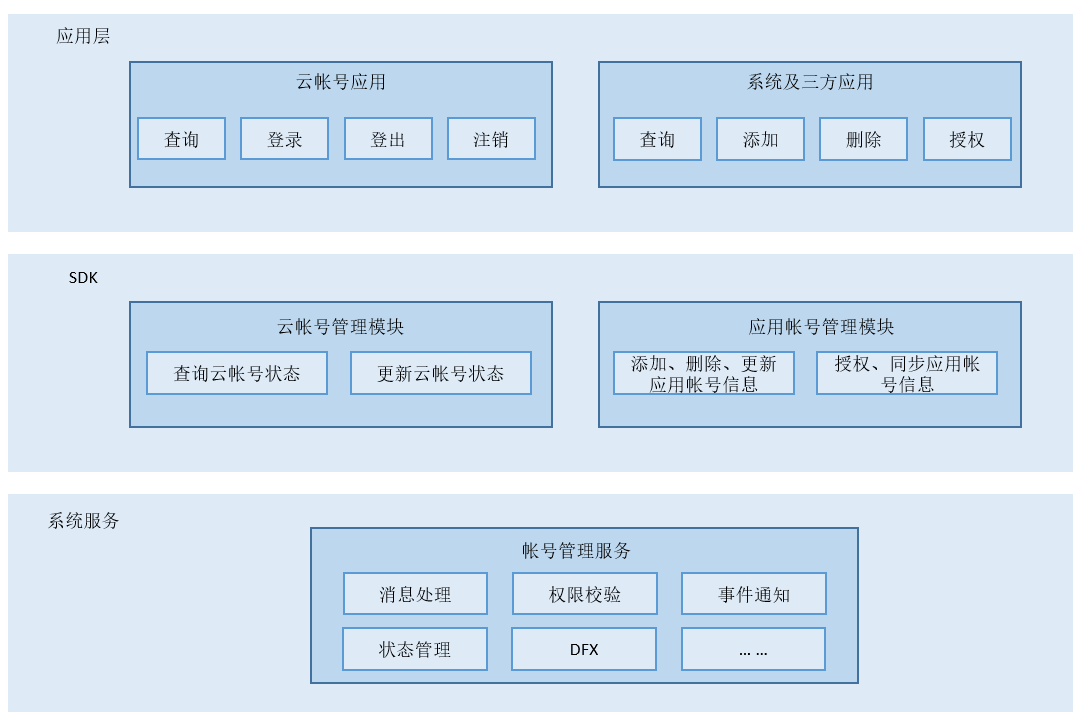
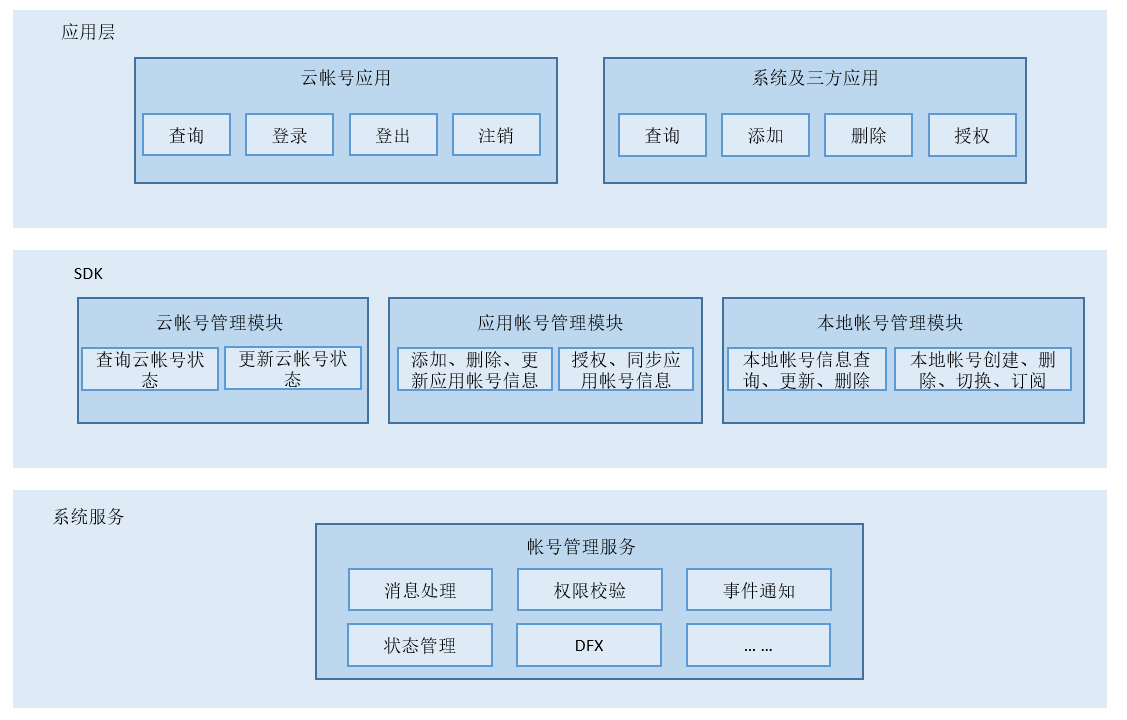
Add README_zh.md

diff --git a/README_zh.md b/README_zh.md
@@ -230,88 +230,309 @@
 </th>
 </tr>
 </thead>
-<tbody><tr id="row18381121274715"><td class="cellrowborder" valign="top" width="64.72%" headers="mcps1.2.3.1.1 "><p id="p1671817233812"><a name="p1671817233812"></a><a name="p1671817233812"></a>addAccount(name: string, callback: AsyncCallback<void>): void;</p>
+<tbody><tr id="row18381121274715"><td class="cellrowborder" valign="top" width="64.72%" headers="mcps1.2.3.1.1 "><p id="p1671817233812"><a name="p1671817233812"></a><a name="p1671817233812"></a>addAccount(name: string, callback: AsyncCallback&lt;void&gt;): void;</p>
 </td>
 <td class="cellrowborder" valign="top" width="35.28%" headers="mcps1.2.3.1.2 "><p id="p63421233134612"><a name="p63421233134612"></a><a name="p63421233134612"></a>添加应用帐号</p>
 </td>
 </tr>
-<tr id="row1938113125470"><td class="cellrowborder" valign="top" width="64.72%" headers="mcps1.2.3.1.1 "><p id="p73429332466"><a name="p73429332466"></a><a name="p73429332466"></a>deleteAccount(name: string, callback: AsyncCallback<void>): void;</p>
+<tr id="row1938113125470"><td class="cellrowborder" valign="top" width="64.72%" headers="mcps1.2.3.1.1 "><p id="p73429332466"><a name="p73429332466"></a><a name="p73429332466"></a>deleteAccount(name: string, callback: AsyncCallback&lt;void&gt;): void;</p>
 </td>
 <td class="cellrowborder" valign="top" width="35.28%" headers="mcps1.2.3.1.2 "><p id="p7342133394620"><a name="p7342133394620"></a><a name="p7342133394620"></a>删除应用帐号</p>
 </td>
 </tr>
-<tr id="row13811912164716"><td class="cellrowborder" valign="top" width="64.72%" headers="mcps1.2.3.1.1 "><p id="p186182593814"><a name="p186182593814"></a><a name="p186182593814"></a>enableAppAccess(name: string, bundleName: string, callback: AsyncCallback<void>): void;</p>
+<tr id="row13811912164716"><td class="cellrowborder" valign="top" width="64.72%" headers="mcps1.2.3.1.1 "><p id="p186182593814"><a name="p186182593814"></a><a name="p186182593814"></a>enableAppAccess(name: string, bundleName: string, callback: AsyncCallback&lt;void&gt;): void;</p>
 </td>
 <td class="cellrowborder" valign="top" width="35.28%" headers="mcps1.2.3.1.2 "><p id="p1534263304617"><a name="p1534263304617"></a><a name="p1534263304617"></a>应用帐号信息访问授权</p>
 </td>
 </tr>
-<tr id="row10382181218477"><td class="cellrowborder" valign="top" width="64.72%" headers="mcps1.2.3.1.1 "><p id="p686934433810"><a name="p686934433810"></a><a name="p686934433810"></a>disableAppAccess(name: string, bundleName: string, callback: AsyncCallback<void>): void;</p>
+<tr id="row10382181218477"><td class="cellrowborder" valign="top" width="64.72%" headers="mcps1.2.3.1.1 "><p id="p686934433810"><a name="p686934433810"></a><a name="p686934433810"></a>disableAppAccess(name: string, bundleName: string, callback: AsyncCallback&lt;void&gt;): void;</p>
 </td>
 <td class="cellrowborder" valign="top" width="35.28%" headers="mcps1.2.3.1.2 "><p id="p0342193384611"><a name="p0342193384611"></a><a name="p0342193384611"></a>应用帐号信息访问取消授权</p>
 </td>
 </tr>
-<tr id="row10382181218477"><td class="cellrowborder" valign="top" width="64.72%" headers="mcps1.2.3.1.1 "><p id="p686934433810"><a name="p686934433810"></a><a name="p686934433810"></a>checkAppAccountSyncEnable(name: string, callback: AsyncCallback<boolean>): void;</p>
+<tr id="row10382181218477"><td class="cellrowborder" valign="top" width="64.72%" headers="mcps1.2.3.1.1 "><p id="p686934433810"><a name="p686934433810"></a><a name="p686934433810"></a>checkAppAccountSyncEnable(name: string, callback: AsyncCallback&lt;boolean&gt;): void;</p>
 </td>
 <td class="cellrowborder" valign="top" width="35.28%" headers="mcps1.2.3.1.2 "><p id="p0342193384611"><a name="p0342193384611"></a><a name="p0342193384611"></a>检查应用帐号同步状态</p>
 </td>
 </tr>
-<tr id="row10382181218477"><td class="cellrowborder" valign="top" width="64.72%" headers="mcps1.2.3.1.1 "><p id="p686934433810"><a name="p686934433810"></a><a name="p686934433810"></a>setAccountCredential(name: string, credentialType: string, credential: string,callback: AsyncCallback<void>): void;</p>
+<tr id="row10382181218477"><td class="cellrowborder" valign="top" width="64.72%" headers="mcps1.2.3.1.1 "><p id="p686934433810"><a name="p686934433810"></a><a name="p686934433810"></a>setAccountCredential(name: string, credentialType: string, credential: string,callback: AsyncCallback&lt;void&gt;): void;</p>
 </td>
 <td class="cellrowborder" valign="top" width="35.28%" headers="mcps1.2.3.1.2 "><p id="p0342193384611"><a name="p0342193384611"></a><a name="p0342193384611"></a>设置应用帐号认证信息</p>
 </td>
 </tr>
-<tr id="row10382181218477"><td class="cellrowborder" valign="top" width="64.72%" headers="mcps1.2.3.1.1 "><p id="p686934433810"><a name="p686934433810"></a><a name="p686934433810"></a>setAccountExtraInfo(name: string, extraInfo: string, callback: AsyncCallback<void>): void;</p>
+<tr id="row10382181218477"><td class="cellrowborder" valign="top" width="64.72%" headers="mcps1.2.3.1.1 "><p id="p686934433810"><a name="p686934433810"></a><a name="p686934433810"></a>setAccountExtraInfo(name: string, extraInfo: string, callback: AsyncCallback&lt;void&gt;): void;</p>
 </td>
 <td class="cellrowborder" valign="top" width="35.28%" headers="mcps1.2.3.1.2 "><p id="p0342193384611"><a name="p0342193384611"></a><a name="p0342193384611"></a>设置应用帐号附加信息</p>
 </td>
 </tr>
-<tr id="row10382181218477"><td class="cellrowborder" valign="top" width="64.72%" headers="mcps1.2.3.1.1 "><p id="p686934433810"><a name="p686934433810"></a><a name="p686934433810"></a>setAppAccountSyncEnable(name: string, isEnable: boolean, callback: AsyncCallback<void>): void;</p>
+<tr id="row10382181218477"><td class="cellrowborder" valign="top" width="64.72%" headers="mcps1.2.3.1.1 "><p id="p686934433810"><a name="p686934433810"></a><a name="p686934433810"></a>setAppAccountSyncEnable(name: string, isEnable: boolean, callback: AsyncCallback&lt;void&gt;): void;</p>
 </td>
 <td class="cellrowborder" valign="top" width="35.28%" headers="mcps1.2.3.1.2 "><p id="p0342193384611"><a name="p0342193384611"></a><a name="p0342193384611"></a>设置应用帐号同步状态</p>
 </td>
 </tr>
-<tr id="row10382181218477"><td class="cellrowborder" valign="top" width="64.72%" headers="mcps1.2.3.1.1 "><p id="p686934433810"><a name="p686934433810"></a><a name="p686934433810"></a>setAssociatedData(name: string, key: string, value: string, callback: AsyncCallback<void>): void;</p>
+<tr id="row10382181218477"><td class="cellrowborder" valign="top" width="64.72%" headers="mcps1.2.3.1.1 "><p id="p686934433810"><a name="p686934433810"></a><a name="p686934433810"></a>setAssociatedData(name: string, key: string, value: string, callback: AsyncCallback&lt;void&gt;): void;</p>
 </td>
 <td class="cellrowborder" valign="top" width="35.28%" headers="mcps1.2.3.1.2 "><p id="p0342193384611"><a name="p0342193384611"></a><a name="p0342193384611"></a>设置应用帐号关联数据</p>
 </td>
 </tr>
-<tr id="row10382181218477"><td class="cellrowborder" valign="top" width="64.72%" headers="mcps1.2.3.1.1 "><p id="p686934433810"><a name="p686934433810"></a><a name="p686934433810"></a>getAllAccessibleAccounts(callback: AsyncCallback &#60;Array&#60; AppAccountInfo>>): void;</p>
+<tr id="row10382181218477"><td class="cellrowborder" valign="top" width="64.72%" headers="mcps1.2.3.1.1 "><p id="p686934433810"><a name="p686934433810"></a><a name="p686934433810"></a>getAllAccessibleAccounts(callback: AsyncCallback &#60;Array&#60; AppAccountInfo&gt;&gt;): void;</p>
 </td>
 <td class="cellrowborder" valign="top" width="35.28%" headers="mcps1.2.3.1.2 "><p id="p0342193384611"><a name="p0342193384611"></a><a name="p0342193384611"></a>查询授权过的应用帐号信息</p>
 </td>
 </tr>
-<tr id="row10382181218477"><td class="cellrowborder" valign="top" width="64.72%" headers="mcps1.2.3.1.1 "><p id="p686934433810"><a name="p686934433810"></a><a name="p686934433810"></a>getAllAccounts(owner: string, callback: AsyncCallback&#60;Array&#60;AppAccountInfo>>): void;</p>
+<tr id="row10382181218477"><td class="cellrowborder" valign="top" width="64.72%" headers="mcps1.2.3.1.1 "><p id="p686934433810"><a name="p686934433810"></a><a name="p686934433810"></a>getAllAccounts(owner: string, callback: AsyncCallback&#60;Array&#60;AppAccountInfo&gt;&gt;): void;</p>
 </td>
 <td class="cellrowborder" valign="top" width="35.28%" headers="mcps1.2.3.1.2 "><p id="p0342193384611"><a name="p0342193384611"></a><a name="p0342193384611"></a>查询指定报名下应用帐号信息</p>
 </td>
 </tr>
-<tr id="row10382181218477"><td class="cellrowborder" valign="top" width="64.72%" headers="mcps1.2.3.1.1 "><p id="p686934433810"><a name="p686934433810"></a><a name="p686934433810"></a>getAccountCredential(name: string, credentialType: string, callback: AsyncCallback<string>): void;</p>
+<tr id="row10382181218477"><td class="cellrowborder" valign="top" width="64.72%" headers="mcps1.2.3.1.1 "><p id="p686934433810"><a name="p686934433810"></a><a name="p686934433810"></a>getAccountCredential(name: string, credentialType: string, callback: AsyncCallback&lt;string&gt;): void;</p>
 </td>
 <td class="cellrowborder" valign="top" width="35.28%" headers="mcps1.2.3.1.2 "><p id="p0342193384611"><a name="p0342193384611"></a><a name="p0342193384611"></a>查询应用帐号认证信息</p>
 </td>
 </tr>
-<tr id="row10382181218477"><td class="cellrowborder" valign="top" width="64.72%" headers="mcps1.2.3.1.1 "><p id="p686934433810"><a name="p686934433810"></a><a name="p686934433810"></a>getAccountExtraInfo(name: string, callback: AsyncCallback<string>): void;</p>
+<tr id="row10382181218477"><td class="cellrowborder" valign="top" width="64.72%" headers="mcps1.2.3.1.1 "><p id="p686934433810"><a name="p686934433810"></a><a name="p686934433810"></a>getAccountExtraInfo(name: string, callback: AsyncCallback&lt;string&gt;): void;</p>
 </td>
 <td class="cellrowborder" valign="top" width="35.28%" headers="mcps1.2.3.1.2 "><p id="p0342193384611"><a name="p0342193384611"></a><a name="p0342193384611"></a>查询应用帐号附加信息</p>
 </td>
 </tr>
-<tr id="row10382181218477"><td class="cellrowborder" valign="top" width="64.72%" headers="mcps1.2.3.1.1 "><p id="p686934433810"><a name="p686934433810"></a><a name="p686934433810"></a>getAssociatedData(name: string, key: string, callback: AsyncCallback<string>): void;</p>
+<tr id="row10382181218477"><td class="cellrowborder" valign="top" width="64.72%" headers="mcps1.2.3.1.1 "><p id="p686934433810"><a name="p686934433810"></a><a name="p686934433810"></a>getAssociatedData(name: string, key: string, callback: AsyncCallback&lt;string&gt;): void;</p>
 </td>
 <td class="cellrowborder" valign="top" width="35.28%" headers="mcps1.2.3.1.2 "><p id="p0342193384611"><a name="p0342193384611"></a><a name="p0342193384611"></a>查询应用帐号关联信息</p>
 </td>
 </tr>
-<tr id="row10382181218477"><td class="cellrowborder" valign="top" width="64.72%" headers="mcps1.2.3.1.1 "><p id="p686934433810"><a name="p686934433810"></a><a name="p686934433810"></a>on(type: 'change', owners: Array<string>, callback: Callback&#60;Array&#60;AppAccountInfo>>): void;</p>
+<tr id="row10382181218477"><td class="cellrowborder" valign="top" width="64.72%" headers="mcps1.2.3.1.1 "><p id="p686934433810"><a name="p686934433810"></a><a name="p686934433810"></a>on(type: 'change', owners: Array&lt;string&gt;, callback: Callback&#60;Array&#60;AppAccountInfo&gt;&gt;): void;</p>
 </td>
 <td class="cellrowborder" valign="top" width="35.28%" headers="mcps1.2.3.1.2 "><p id="p0342193384611"><a name="p0342193384611"></a><a name="p0342193384611"></a>订阅应用帐号信息变化</p>
 </td>
 </tr>
-<tr id="row10382181218477"><td class="cellrowborder" valign="top" width="64.72%" headers="mcps1.2.3.1.1 "><p id="p686934433810"><a name="p686934433810"></a><a name="p686934433810"></a>off(type: 'change', callback?: Callback&#60;void>): void;</p>
+<tr id="row10382181218477"><td class="cellrowborder" valign="top" width="64.72%" headers="mcps1.2.3.1.1 "><p id="p686934433810"><a name="p686934433810"></a><a name="p686934433810"></a>off(type: 'change', callback?: Callback&#60;void&gt;): void;</p>
 </td>
 <td class="cellrowborder" valign="top" width="35.28%" headers="mcps1.2.3.1.2 "><p id="p0342193384611"><a name="p0342193384611"></a><a name="p0342193384611"></a>取消订阅应用帐号信息变化</p>
 </td>
 </tr>
 </tbody>
 </table>
+
+#### 3，本地帐号
+
+本地帐号的主要功能包括本地帐号的添加、删除，查询，设置，订阅，启动等功能，提供本地帐号数据落盘的能力。
+
+**表 1**  本地帐号模块说明
+
+<a name="table1650615420620"></a>
+
+<table><thead align="left"><tr id="row175061254462"><th class="cellrowborder" valign="top" width="51.53%" id="mcps1.2.3.1.1"><p id="p1250613547612"><a name="p1250613547612"></a><a name="p1250613547612"></a>模块名</p>
+</th>
+<th class="cellrowborder" valign="top" width="48.47%" id="mcps1.2.3.1.2"><p id="p85066541767"><a name="p85066541767"></a><a name="p85066541767"></a>描述</p>
+</th>
+</tr>
+</thead>
+<tbody>
+<tr id="row0506185417614"><td class="cellrowborder" valign="top" width="51.53%" headers="mcps1.2.3.1.1 "><p id="p1561112131788"><a name="p1561112131788"></a><a name="p1561112131788"></a>osAccount</p>
+</td>
+<td class="cellrowborder" valign="top" width="48.47%" headers="mcps1.2.3.1.2 "><p id="p1954531161115"><a name="p1954531161115"></a><a name="p1954531161115"></a>提供本地帐号模块管理方法</p>
+</td>
+</tr>
+</tbody>
+</table>
+
+
+**表 2**  本地帐号类说明
+
+<a name="table1324102194217"></a>
+
+<table><thead align="left"><tr id="row43241021174219"><th class="cellrowborder" valign="top" width="51.61%" id="mcps1.2.3.1.1"><p id="p10324621104214"><a name="p10324621104214"></a><a name="p10324621104214"></a>类名</p>
+</th>
+<th class="cellrowborder" valign="top" width="48.39%" id="mcps1.2.3.1.2"><p id="p2324221174213"><a name="p2324221174213"></a><a name="p2324221174213"></a>描述</p>
+</th>
+</tr>
+</thead>
+<tbody><tr id="row1432413213425"><td class="cellrowborder" valign="top" width="51.61%" headers="mcps1.2.3.1.1 "><p id="p1732472184212"><a name="p1732472184212"></a><a name="p1732472184212"></a>AccountManager</p>
+</td>
+<td class="cellrowborder" valign="top" width="48.39%" headers="mcps1.2.3.1.2 "><p id="p1932432110421"><a name="p1932432110421"></a><a name="p1932432110421"></a>提供查询、增加、删除、启动本地帐号等相关方法</p>
+</td>
+</tr>
+<tr id="row12324162116427"><td class="cellrowborder" valign="top" width="51.61%" headers="mcps1.2.3.1.1 "><p id="p1232422184216"><a name="p1232422184216"></a><a name="p1232422184216"></a>OsAccountInfo</p>
+</td>
+<td class="cellrowborder" valign="top" width="48.39%" headers="mcps1.2.3.1.2 "><p id="p1324821164215"><a name="p1324821164215"></a><a name="p1324821164215"></a>提供本地帐号信息，包括本地帐号名称，ID等属性。</p>
+</td>
+</tr>
+</tbody>
+</table>
+
+
+
+**表 3**  本地帐号模块方法说明
+
+<a name="table6561120114219"></a>
+
+<table><thead align="left"><tr id="row115642084211"><th class="cellrowborder" valign="top" width="51.67%" id="mcps1.2.3.1.1"><p id="p7565201424"><a name="p7565201424"></a><a name="p7565201424"></a>方法</p>
+</th>
+<th class="cellrowborder" valign="top" width="48.33%" id="mcps1.2.3.1.2"><p id="p0568204427"><a name="p0568204427"></a><a name="p0568204427"></a>描述</p>
+</th>
+</tr>
+</thead>
+<tbody><tr id="row456162064218"><td class="cellrowborder" valign="top" width="51.67%" headers="mcps1.2.3.1.1 "><p id="p8388718174317"><a name="p8388718174317"></a><a name="p8388718174317"></a>function getAccountManager(): AccountManager</p>
+</td>
+<td class="cellrowborder" valign="top" width="48.33%" headers="mcps1.2.3.1.2 "><p id="p5561920194211"><a name="p5561920194211"></a><a name="p5561920194211"></a>获取本地帐号单实例对象</p>
+</td>
+</tr>
+</tbody>
+</table>
+
+
+
+**表 4**  AccountManager方法说明
+
+<a name="table1738121244713"></a>
+
+<table><thead align="left"><tr id="row4381111254710"><th class="cellrowborder" valign="top" width="64.72%" id="mcps1.2.3.1.1"><p id="p1738116127470"><a name="p1738116127470"></a><a name="p1738116127470"></a>方法</p>
+</th>
+<th class="cellrowborder" valign="top" width="35.28%" id="mcps1.2.3.1.2"><p id="p10381161224717"><a name="p10381161224717"></a><a name="p10381161224717"></a>描述</p>
+</th>
+</tr>
+</thead>
+<tbody><tr id="row18381121274715"><td class="cellrowborder" valign="top" width="64.72%" headers="mcps1.2.3.1.1 "><p id="p1671817233812"><a name="p1671817233812"></a><a name="p1671817233812"></a>activateOsAccount(localId: number, callback: AsyncCallback&lt;void&gt;): void;</p>
+</td>
+<td class="cellrowborder" valign="top" width="35.28%" headers="mcps1.2.3.1.2 "><p id="p63421233134612"><a name="p63421233134612"></a><a name="p63421233134612"></a>激活本地帐号</p>
+</td>
+</tr>
+<tr id="row1938113125470"><td class="cellrowborder" valign="top" width="64.72%" headers="mcps1.2.3.1.1 "><p id="p73429332466"><a name="p73429332466"></a><a name="p73429332466"></a>isMultiOsAccountEnable(callback: AsyncCallback&lt;boolean&gt;): void;</p>
+</td>
+<td class="cellrowborder" valign="top" width="35.28%" headers="mcps1.2.3.1.2 "><p id="p7342133394620"><a name="p7342133394620"></a><a name="p7342133394620"></a>查询是否支持本地多帐号</p>
+</td>
+</tr>
+<tr id="row13811912164716"><td class="cellrowborder" valign="top" width="64.72%" headers="mcps1.2.3.1.1 "><p id="p186182593814"><a name="p186182593814"></a><a name="p186182593814"></a>isOsAccountActived(localId: number, callback: AsyncCallback&lt;boolean&gt;): void;</p>
+</td>
+<td class="cellrowborder" valign="top" width="35.28%" headers="mcps1.2.3.1.2 "><p id="p1534263304617"><a name="p1534263304617"></a><a name="p1534263304617"></a>是否当前本地帐号是激活状态</p>
+</td>
+</tr>
+<tr id="row10382181218477"><td class="cellrowborder" valign="top" width="64.72%" headers="mcps1.2.3.1.1 "><p id="p686934433810"><a name="p686934433810"></a><a name="p686934433810"></a>isOsAccountConstraintEnable(localId: number, constraint: string, callback: AsyncCallback&lt;boolean&gt;): void;</p>
+</td>
+<td class="cellrowborder" valign="top" width="35.28%" headers="mcps1.2.3.1.2 "><p id="p0342193384611"><a name="p0342193384611"></a><a name="p0342193384611"></a>查询该本地帐号是否具有指定约束</p>
+</td>
+</tr>
+<tr id="row10382181218477"><td class="cellrowborder" valign="top" width="64.72%" headers="mcps1.2.3.1.1 "><p id="p686934433810"><a name="p686934433810"></a><a name="p686934433810"></a>isTestOsAccount(callback: AsyncCallback&lt;boolean&gt;): void;</p>
+</td>
+<td class="cellrowborder" valign="top" width="35.28%" headers="mcps1.2.3.1.2 "><p id="p0342193384611"><a name="p0342193384611"></a><a name="p0342193384611"></a>当前本地帐户是否是测试帐户</p>
+</td>
+</tr>
+<tr id="row10382181218477"><td class="cellrowborder" valign="top" width="64.72%" headers="mcps1.2.3.1.1 "><p id="p686934433810"><a name="p686934433810"></a><a name="p686934433810"></a>isOsAccountVerified(localId: number, callback: AsyncCallback&lt;boolean&gt;): void;</p>
+</td>
+<td class="cellrowborder" valign="top" width="35.28%" headers="mcps1.2.3.1.2 "><p id="p0342193384611"><a name="p0342193384611"></a><a name="p0342193384611"></a>指定本地帐户是否解锁</p>
+</td>
+</tr>
+<tr id="row10382181218477"><td class="cellrowborder" valign="top" width="64.72%" headers="mcps1.2.3.1.1 "><p id="p686934433810"><a name="p686934433810"></a><a name="p686934433810"></a>removeOsAccount(localId: number, callback: AsyncCallback&lt;void&gt;): void;</p>
+</td>
+<td class="cellrowborder" valign="top" width="35.28%" headers="mcps1.2.3.1.2 "><p id="p0342193384611"><a name="p0342193384611"></a><a name="p0342193384611"></a>删除本地帐户</p>
+</td>
+</tr>
+<tr id="row10382181218477"><td class="cellrowborder" valign="top" width="64.72%" headers="mcps1.2.3.1.1 "><p id="p686934433810"><a name="p686934433810"></a><a name="p686934433810"></a>setOsAccountConstraints(localId: number, constraints: Array&lt;string&gt;, enable: boolean,callback: AsyncCallback&lt;void&gt;): void;</p>
+</td>
+<td class="cellrowborder" valign="top" width="35.28%" headers="mcps1.2.3.1.2 "><p id="p0342193384611"><a name="p0342193384611"></a><a name="p0342193384611"></a>设置本地帐户约束</p>
+</td>
+</tr>
+<tr id="row10382181218477"><td class="cellrowborder" valign="top" width="64.72%" headers="mcps1.2.3.1.1 "><p id="p686934433810"><a name="p686934433810"></a><a name="p686934433810"></a>setAssociatedData(name: string, key: string, value: string, callback: AsyncCallback&lt;void&gt;): void;</p>
+</td>
+<td class="cellrowborder" valign="top" width="35.28%" headers="mcps1.2.3.1.2 "><p id="p0342193384611"><a name="p0342193384611"></a><a name="p0342193384611"></a>设置应用帐号关联数据</p>
+</td>
+</tr>
+<tr id="row10382181218477"><td class="cellrowborder" valign="top" width="64.72%" headers="mcps1.2.3.1.1 "><p id="p686934433810"><a name="p686934433810"></a><a name="p686934433810"></a>setOsAccountName(localId: number, localName: string, callback: AsyncCallback&lt;void&gt;): void;</p>
+</td>
+<td class="cellrowborder" valign="top" width="35.28%" headers="mcps1.2.3.1.2 "><p id="p0342193384611"><a name="p0342193384611"></a><a name="p0342193384611"></a>修改本地帐户名称</p>
+</td>
+</tr>
+<tr id="row10382181218477"><td class="cellrowborder" valign="top" width="64.72%" headers="mcps1.2.3.1.1 "><p id="p686934433810"><a name="p686934433810"></a><a name="p686934433810"></a>getCreatedOsAccountsCount(callback: AsyncCallback&lt;number&gt;): void;</p>
+</td>
+<td class="cellrowborder" valign="top" width="35.28%" headers="mcps1.2.3.1.2 "><p id="p0342193384611"><a name="p0342193384611"></a><a name="p0342193384611"></a>查询创建本地帐号数量</p>
+</td>
+</tr>
+<tr id="row10382181218477"><td class="cellrowborder" valign="top" width="64.72%" headers="mcps1.2.3.1.1 "><p id="p686934433810"><a name="p686934433810"></a><a name="p686934433810"></a>getOsAccountLocalIdFromProcess(callback: AsyncCallback&lt;number&gt;): void;</p>
+</td>
+<td class="cellrowborder" valign="top" width="35.28%" headers="mcps1.2.3.1.2 "><p id="p0342193384611"><a name="p0342193384611"></a><a name="p0342193384611"></a>查询当前进程的本地用户ID</p>
+</td>
+</tr>
+<tr id="row10382181218477"><td class="cellrowborder" valign="top" width="64.72%" headers="mcps1.2.3.1.1 "><p id="p686934433810"><a name="p686934433810"></a><a name="p686934433810"></a>getOsAccountLocalIdFromUid(uid: number, callback: AsyncCallback&lt;number&gt;): void;</p>
+</td>
+<td class="cellrowborder" valign="top" width="35.28%" headers="mcps1.2.3.1.2 "><p id="p0342193384611"><a name="p0342193384611"></a><a name="p0342193384611"></a>查询指定本地帐号的用户ID</p>
+</td>
+</tr>
+<tr id="row10382181218477"><td class="cellrowborder" valign="top" width="64.72%" headers="mcps1.2.3.1.1 "><p id="p686934433810"><a name="p686934433810"></a><a name="p686934433810"></a>queryMaxOsAccountNumber(callback: AsyncCallback&lt;number&gt;): void;</p>
+</td>
+<td class="cellrowborder" valign="top" width="35.28%" headers="mcps1.2.3.1.2 "><p id="p0342193384611"><a name="p0342193384611"></a><a name="p0342193384611"></a>查询可创建本地帐号的最大数量/p>
+</td>
+</tr>
+<tr id="row10382181218477"><td class="cellrowborder" valign="top" width="64.72%" headers="mcps1.2.3.1.1 "><p id="p686934433810"><a name="p686934433810"></a><a name="p686934433810"></a>getOsAccountAllConstraints(localId: number, callback: AsyncCallback&lt;Array&lt;string&gt;&gt;): void;</p>
+</td>
+<td class="cellrowborder" valign="top" width="35.28%" headers="mcps1.2.3.1.2 "><p id="p0342193384611"><a name="p0342193384611"></a><a name="p0342193384611"></a>订查询指定本地帐号的全部约束</p>
+</td>
+</tr>
+<tr id="row10382181218477"><td class="cellrowborder" valign="top" width="64.72%" headers="mcps1.2.3.1.1 "><p id="p686934433810"><a name="p686934433810"></a><a name="p686934433810"></a>queryAllCreatedOsAccounts(callback: AsyncCallback&lt;Array&lt;OsAccountInfo&gt;&gt;): void;</p>
+</td>
+<td class="cellrowborder" valign="top" width="35.28%" headers="mcps1.2.3.1.2 "><p id="p0342193384611"><a name="p0342193384611"></a><a name="p0342193384611"></a>查询创建的全部本地帐号信息</p>
+</td>
+</tr>
+<tr id="row10382181218477"><td class="cellrowborder" valign="top" width="64.72%" headers="mcps1.2.3.1.1 "><p id="p686934433810"><a name="p686934433810"></a><a name="p686934433810"></a>createOsAccount(localName: string, type: OsAccountType, callback: AsyncCallback&lt;OsAccountInfo&gt;): void;</p>
+</td>
+<td class="cellrowborder" valign="top" width="35.28%" headers="mcps1.2.3.1.2 "><p id="p0342193384611"><a name="p0342193384611"></a><a name="p0342193384611"></a>创建本地帐号</p>
+</td>
+</tr>
+<tr id="row10382181218477"><td class="cellrowborder" valign="top" width="64.72%" headers="mcps1.2.3.1.1 "><p id="p686934433810"><a name="p686934433810"></a><a name="p686934433810"></a>queryCurrentOsAccount(callback: AsyncCallback&lt;OsAccountInfo&gt;): void;</p>
+</td>
+<td class="cellrowborder" valign="top" width="35.28%" headers="mcps1.2.3.1.2 "><p id="p0342193384611"><a name="p0342193384611"></a><a name="p0342193384611"></a>查询当前本地帐号信息</p>
+</td>
+</tr>
+<tr id="row10382181218477"><td class="cellrowborder" valign="top" width="64.72%" headers="mcps1.2.3.1.1 "><p id="p686934433810"><a name="p686934433810"></a><a name="p686934433810"></a>queryOsAccountById(localId: number, callback: AsyncCallback&lt;OsAccountInfo&gt;): void;</p>
+</td>
+<td class="cellrowborder" valign="top" width="35.28%" headers="mcps1.2.3.1.2 "><p id="p0342193384611"><a name="p0342193384611"></a><a name="p0342193384611"></a>查询指定本地帐号信息</p>
+</td>
+</tr>
+<tr id="row10382181218477"><td class="cellrowborder" valign="top" width="64.72%" headers="mcps1.2.3.1.1 "><p id="p686934433810"><a name="p686934433810"></a><a name="p686934433810"></a>getOsAccountTypeFromProcess(callback: AsyncCallback&lt;OsAccountType&gt;): void;</p>
+</td>
+<td class="cellrowborder" valign="top" width="35.28%" headers="mcps1.2.3.1.2 "><p id="p0342193384611"><a name="p0342193384611"></a><a name="p0342193384611"></a>查询当前帐号TYPE</p>
+</td>
+</tr>
+<tr id="row10382181218477"><td class="cellrowborder" valign="top" width="64.72%" headers="mcps1.2.3.1.1 "><p id="p686934433810"><a name="p686934433810"></a><a name="p686934433810"></a>getDistributedVirtualDeviceId(callback: AsyncCallback&lt;string&gt;): void;</p>
+</td>
+<td class="cellrowborder" valign="top" width="35.28%" headers="mcps1.2.3.1.2 "><p id="p0342193384611"><a name="p0342193384611"></a><a name="p0342193384611"></a>查询分布式虚拟设备ID</p>
+</td>
+</tr>
+<tr id="row10382181218477"><td class="cellrowborder" valign="top" width="64.72%" headers="mcps1.2.3.1.1 "><p id="p686934433810"><a name="p686934433810"></a><a name="p686934433810"></a>getOsAccountProfilePhoto(localId: number, callback: AsyncCallback&lt;string&gt;): void;</p>
+</td>
+<td class="cellrowborder" valign="top" width="35.28%" headers="mcps1.2.3.1.2 "><p id="p0342193384611"><a name="p0342193384611"></a><a name="p0342193384611"></a>获取当前本地帐号头像</p>
+</td>
+</tr>
+<tr id="row10382181218477"><td class="cellrowborder" valign="top" width="64.72%" headers="mcps1.2.3.1.1 "><p id="p686934433810"><a name="p686934433810"></a><a name="p686934433810"></a>setOsAccountProfilePhoto(localId: number, photo: string, callback: AsyncCallback&lt;void&gt;): void;</p>
+</td>
+<td class="cellrowborder" valign="top" width="35.28%" headers="mcps1.2.3.1.2 "><p id="p0342193384611"><a name="p0342193384611"></a><a name="p0342193384611"></a>设置当前本地帐户头像</p>
+</td>
+</tr>
+<tr id="row10382181218477"><td class="cellrowborder" valign="top" width="64.72%" headers="mcps1.2.3.1.1 "><p id="p686934433810"><a name="p686934433810"></a><a name="p686934433810"></a>getOsAccountLocalIdBySerialNumber(serialNumber: number, callback: AsyncCallback&lt;number&gt;): void;</p>
+</td>
+<td class="cellrowborder" valign="top" width="35.28%" headers="mcps1.2.3.1.2 "><p id="p0342193384611"><a name="p0342193384611"></a><a name="p0342193384611"></a>通过帐号SN码获取本地帐号ID</p>
+</td>
+</tr>
+<tr id="row10382181218477"><td class="cellrowborder" valign="top" width="64.72%" headers="mcps1.2.3.1.1 "><p id="p686934433810"><a name="p686934433810"></a><a name="p686934433810"></a>getSerialNumberByOsAccountLocalId(localId: number, callback: AsyncCallback&lt;number&gt;): void;</p>
+</td>
+<td class="cellrowborder" valign="top" width="35.28%" headers="mcps1.2.3.1.2 "><p id="p0342193384611"><a name="p0342193384611"></a><a name="p0342193384611"></a>通过本地帐号ID获取帐号SN码</p>
+</td>
+</tr>
+<tr id="row10382181218477"><td class="cellrowborder" valign="top" width="64.72%" headers="mcps1.2.3.1.1 "><p id="p686934433810"><a name="p686934433810"></a><a name="p686934433810"></a>on(type: 'activate' | 'activating', name: string, callback: Callback&lt;number&gt;): void;</p>
+</td>
+<td class="cellrowborder" valign="top" width="35.28%" headers="mcps1.2.3.1.2 "><p id="p0342193384611"><a name="p0342193384611"></a><a name="p0342193384611"></a>本地帐号订阅</p>
+</td>
+</tr>
+<tr id="row10382181218477"><td class="cellrowborder" valign="top" width="64.72%" headers="mcps1.2.3.1.1 "><p id="p686934433810"><a name="p686934433810"></a><a name="p686934433810"></a>off(type: 'activate' | 'activating', name: string, callback?: Callback&lt;number&gt;): void;</p>
+</td>
+<td class="cellrowborder" valign="top" width="35.28%" headers="mcps1.2.3.1.2 "><p id="p0342193384611"><a name="p0342193384611"></a><a name="p0342193384611"></a>本地帐号取消订阅</p>
+</td>
+</tr>
+</tbody>
+</table>
+
+
+
+## 
 
 ## 相关仓<a name="section1371113476307"></a>
 
